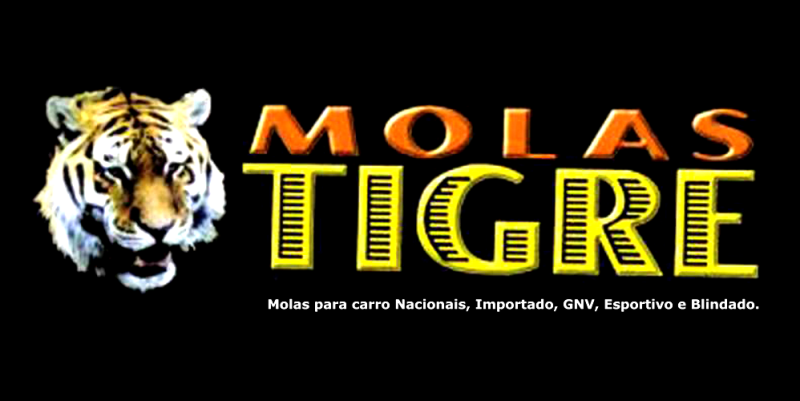
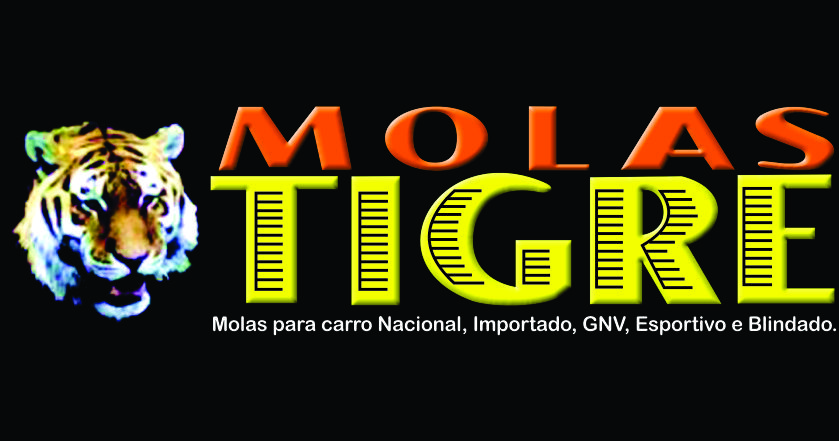
Atualização Slider Home
retirar imagem Ipiranga, otimizar imagem Tigre, adicionar promoção
Total.

diff --git a/includes/promocao.php b/includes/promocao.php
@@ -4,46 +4,20 @@
         	<h2>Nossas<span class="color"> Promoções</span></h2>
 	        <div class="border"></div>
 	</div>	
-	 <span class="text-center"> Confira as promo&ccedil;&otilde;es do m&ecirc;s de Novembro:
-	 <br>Clique no Logo da marca e abra em PDF.  </span>
+	 <span class="text-center"> Confira as promo&ccedil;&otilde;es do m&ecirc;s de Julho:
+	 
 	<div class=" row promo subR">	
-		<div class="col-md-2 col-sm-2  " align="center" >
-
-		</div>		
-		<div class="col-md-2 col-sm-2 col-xs-6 " align="center" >		
-			<a href="promocoes/Vox.pdf" target="_blank">
-			<img src="img/logos/fornec/vox.png" /></a>
+		<div class="col-md-8 col-md-offset-2 col-sm-12  " align="center" >
+		<img src="img/07-2017.png" class="imgC">
 		</div>
-		
-		<div class="col-md-2 col-sm-2 col-xs-6 " align="center" >		
-				
-		</div>
-			
-
 	</div>
 	<span class="text-center">
-	Pre&ccedil;os v&aacute;lidos at&eacute; 28/02/2017&nbsp;ou enquanto durarem o estoque.</span>
-	<div class="row promo subR">
-		<div class="col-md-8 col-md-offset-2"><hr></div>
-	</div>
-	<div class=" row promo subR">	
-		
-		<div class="col-md-2 col-md-offset-2 col-sm-2 col-xs-6 " align="center" >
-			<a href="promocoes/Rolt.pdf" target="_blank">
-			<img src="img/logos/fornec/rolt.png" /></a>
-		</div>
-		<div class="col-md-2 col-sm-2 col-xs-6 " align="center" >
-			<a href="promocoes/Bortec.pdf" target="_blank">
-			<img src="img/logos/fornec/bortec.png" /></a>
-		</div>
-		<div class="col-md-2 col-sm-2 col-xs-6 " align="center" >
-			<a href="promocoes/MDS.pdf" target="_blank">
-			<img src="img/logos/fornec/mds.png" /></a>
-		</div>
+	Pre&ccedil;os v&aacute;lidos at&eacute; 31/07/2017&nbsp;ou enquanto durar o estoque.</span>
+	
 		
 		
-	</div><span class="text-center">
-	Pre&ccedil;os v&aacute;lidos enquanto durarem o estoque.<br>
+	<span class="text-center">
+	
 	 <h3><span class="vend">Aproveite nosso estoque e ligue j&aacute;!</span></h3> </span> 
 </div>
 

diff --git a/old/promocao10-07-17....1.php b/old/promocao10-07-17....1.php
@@ -1,0 +1,50 @@
+
+<div class="container" >
+	<div class="title text-center " >
+        	<h2>Nossas<span class="color"> Promoções</span></h2>
+	        <div class="border"></div>
+	</div>	
+	 <span class="text-center"> Confira as promo&ccedil;&otilde;es do m&ecirc;s de Novembro:
+	 <br>Clique no Logo da marca e abra em PDF.  </span>
+	<div class=" row promo subR">	
+		<div class="col-md-2 col-sm-2  " align="center" >
+
+		</div>		
+		<div class="col-md-2 col-sm-2 col-xs-6 " align="center" >		
+			<a href="promocoes/Vox.pdf" target="_blank">
+			<img src="img/logos/fornec/vox.png" /></a>
+		</div>
+		
+		<div class="col-md-2 col-sm-2 col-xs-6 " align="center" >		
+				
+		</div>
+			
+
+	</div>
+	<span class="text-center">
+	Pre&ccedil;os v&aacute;lidos at&eacute; 28/02/2017&nbsp;ou enquanto durarem o estoque.</span>
+	<div class="row promo subR">
+		<div class="col-md-8 col-md-offset-2"><hr></div>
+	</div>
+	<div class=" row promo subR">	
+		
+		<div class="col-md-2 col-md-offset-2 col-sm-2 col-xs-6 " align="center" >
+			<a href="promocoes/Rolt.pdf" target="_blank">
+			<img src="img/logos/fornec/rolt.png" /></a>
+		</div>
+		<div class="col-md-2 col-sm-2 col-xs-6 " align="center" >
+			<a href="promocoes/Bortec.pdf" target="_blank">
+			<img src="img/logos/fornec/bortec.png" /></a>
+		</div>
+		<div class="col-md-2 col-sm-2 col-xs-6 " align="center" >
+			<a href="promocoes/MDS.pdf" target="_blank">
+			<img src="img/logos/fornec/mds.png" /></a>
+		</div>
+		
+		
+	</div><span class="text-center">
+	Pre&ccedil;os v&aacute;lidos enquanto durarem o estoque.<br>
+	 <h3><span class="vend">Aproveite nosso estoque e ligue j&aacute;!</span></h3> </span> 
+</div>
+
+

diff --git a/old/home -10-7-17..2.php b/old/home -10-7-17..2.php
@@ -122,6 +122,8 @@
                 
                  <div class="item" style="background-image: url(img/slider/data1/images/19.jpg)">
                 </div>
+                <div class="item" style="background-image: url(img/slider/data1/images/20.jpg)">
+                </div>
                 
                 </div>
         </div>

diff --git a/includes/produtos.php b/includes/produtos.php
@@ -181,7 +181,7 @@ var d= document.getElementById("Down").style.display;
 
 
 <div align="center"  >
-	<?php // include('includes/promocao.php'); ?>
+	<?php  include('includes/promocao.php'); ?>
 </div>
 <!--
 <div class=" container parallax-section" id="vendidos"  class="bg-one" >
